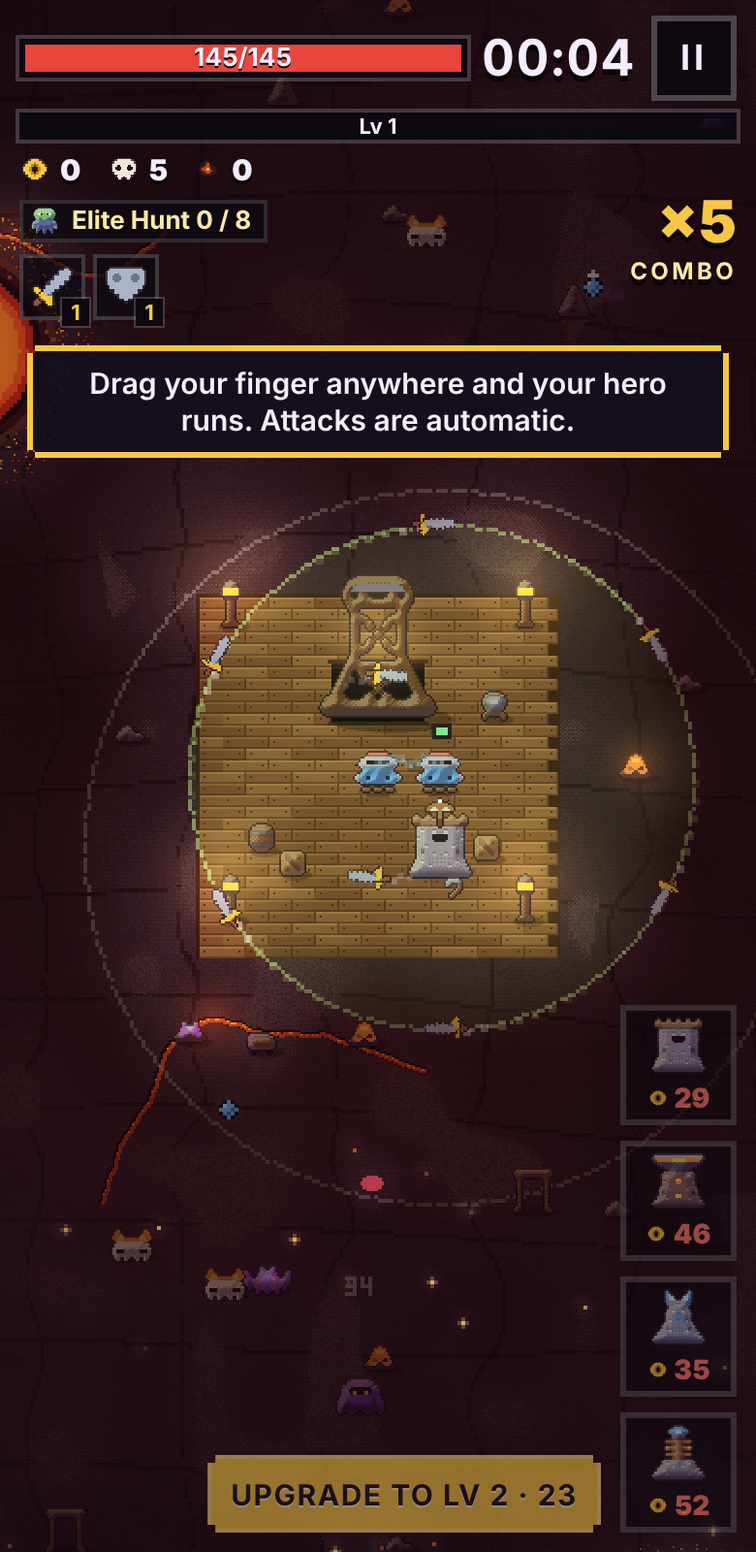
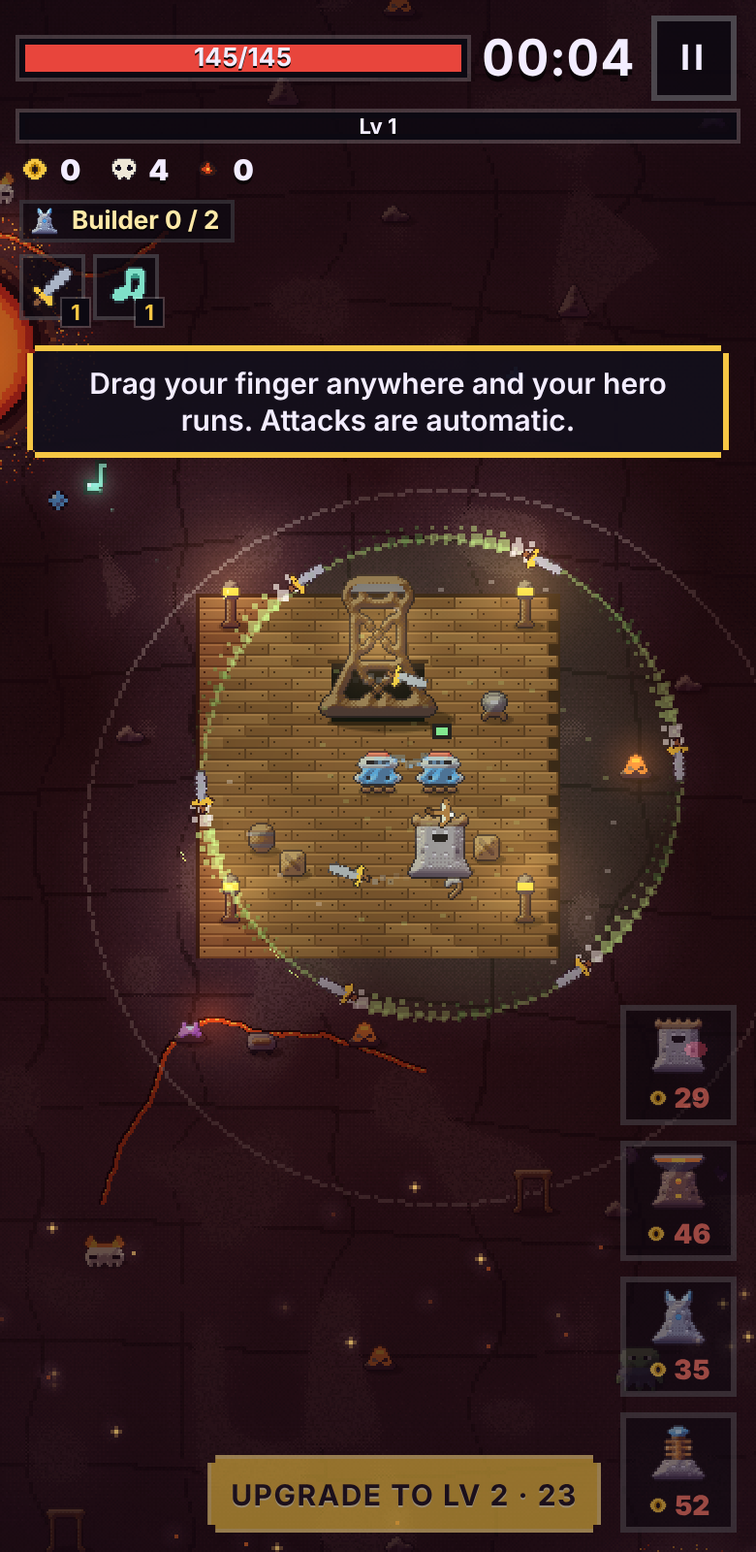
Efektní ultimátky: nový vzhled fúzí, aura hrdiny, náraz dropu, verze 2026-11-07d
Claude-Session: https://claude.ai/code/session_0145V9NbT8siG69Xgsc47SLj

diff --git a/index.html b/index.html
@@ -1615,7 +1615,7 @@ function fitApp(){try{const sa=window.navigator.standalone===true||matchMedia('(
   let h=Math.max(window.innerHeight||0,document.documentElement.clientHeight||0);
   if(sa&&(/iPhone|iPad|iPod/.test(navigator.userAgent||'')||(navigator.platform==='MacIntel'&&navigator.maxTouchPoints>1))){const land=(window.innerWidth||0)>(window.innerHeight||0);h=Math.max(h,land?Math.min(screen.width,screen.height):Math.max(screen.width,screen.height));}
   document.documentElement.style.setProperty('--appH',h+'px');fitApp.info={sa,h,ih:window.innerHeight,ch:document.documentElement.clientHeight,sh:screen.height,sw:screen.width};}catch(_){}}
-const GAME_VER='2026-11-07c';
+const GAME_VER='2026-11-07d';
 fitApp();addEventListener('resize',()=>{fitApp();resize();});addEventListener('orientationchange',()=>setTimeout(()=>{fitApp();resize();},250));
 
 /* ============ state ============ */
@@ -1907,6 +1907,7 @@ const LOGIC={
    fire({x:p.x,y:p.y,vx:Math.cos(a)*190,vy:Math.sin(a)*190,dmg:P.dmg,r:5,pierce:99,life:2.2,kind:'rang',rehit:.3,kb:40,spin:14,t:0});}}},
  // ultimates (w.mul = bonus from the rhythm fusion)
  vortex:{cont(w,P,dt){const p=run.p,m=w.mul||1,ph=(((M.beatPos/4)%1)+1)%1;w.r=P.rad+(P.out-P.rad)*Math.sin(Math.PI*ph);w.ang=M.beatPos*6.283*.5;w.pulse=Math.max(0,(w.pulse||0)-dt*4);
+   if(Math.random()<dt*14){const a=Math.random()*6.283;addP({k:'streak',x:p.x+Math.cos(a)*w.r,y:p.y+Math.sin(a)*w.r,vx:Math.cos(a+1.57)*90,vy:Math.sin(a+1.57)*90,life:.35,col:'#c8ff9a',g:0,drag:2});}
    for(let i=0;i<P.n;i++){const a=w.ang+i*6.283/P.n,bx=p.x+Math.cos(a)*w.r,by=p.y+Math.sin(a)*w.r;
     for(const e of run.enemies){if(e.dead||Math.abs(e.x-bx)>e.r+7||Math.abs(e.y-by)>e.r+7)continue;
      if(Math.hypot(e.x-bx,e.y-by)<e.r+6&&run.t-(e.hc.vortex||-9)>.3){e.hc.vortex=run.t;hurtEnemy(e,P.dmg*m,Math.cos(a+1.57)*110,Math.sin(a+1.57)*110);}}}},
@@ -1918,7 +1919,7 @@ const LOGIC={
     for(let i=1;i<P.n;i++){let nx=null,nd=72;for(const e of run.enemies){if(e.dead||hit.has(e))continue;const dd=Math.hypot(e.x-cur.x,e.y-cur.y);if(dd<nd){nd=dd;nx=e;}}
      if(!nx)break;hit.add(nx);d*=.92;pts.push({x:nx.x,y:nx.y});zap(nx,d);cur=nx;}
     if(pts.length>2)run.fx.push({k:'bolt',x:pts[pts.length-1].x,y:pts[pts.length-1].y,life:.18,seed:Math.random()*99});
-    run.fx.push({k:'arc',pts,life:.2,seed:Math.random()*99,col:'#f6e05a'});}}},
+    run.fx.push({k:'arc',pts,life:.28,seed:Math.random()*99,col:'#f6e05a'});}}},
  meteor:{fire(w,P){const ts=nearest(10,170),p=run.p,m=w.mul||1;sfx('shoot',2);
    for(let i=0;i<P.n;i++){const t=ts.length?ts[(Math.random()*ts.length)|0]:null,x=t?t.x+rnd(-6,6):p.x+rnd(-70,70),y=t?t.y+rnd(-6,6):p.y+rnd(-70,70);
     run.fx.push({k:'meteor',x,y,t:-i*.12,dur:.5,dmg:P.dmg*m,rad:P.rad,burn:P.burn*m});}}},
@@ -1927,7 +1928,8 @@ const LOGIC={
 };
 Object.assign(LOGIC,{
  echo:{fire(w,P){const p=run.p,m=w.mul||1,off=M.beatPos*.4;sfx('shoot',3);
-   for(let i=0;i<P.n;i++){const a=off+i*6.283/P.n;fire({x:p.x,y:p.y-3,vx:Math.cos(a)*125,vy:Math.sin(a)*125,a0:a,wt:i*.5,spd:125,dmg:P.dmg*m,r:3,pierce:P.pierce,life:1.1,kind:'note',kb:25});}
+   for(let i=0;i<P.n;i++){const a=off+i*6.283/P.n;fire({x:p.x,y:p.y-3,vx:Math.cos(a)*125,vy:Math.sin(a)*125,a0:a,wt:i*.5,spd:125,dmg:P.dmg*m,r:3,pierce:P.pierce,life:1.1,kind:'note',kb:25,ech:1});}
+   run.fx.push({k:'wave',x:p.x,y:p.y,life:.45,max:.45,r:64});
    if(run.barNow||M.step%16===0){const ts=nearest(P.rn,170);for(let i=0;i<P.rn;i++){const t=ts[i%Math.max(1,ts.length)],a=t?Math.atan2(t.y-p.y,t.x-p.x):i*2.1;
      fire({x:p.x,y:p.y,vx:Math.cos(a)*200,vy:Math.sin(a)*200,dmg:P.rdmg*m,r:6,pierce:99,life:2.2,kind:'rang',rehit:.25,kb:45,spin:16,t:0,echo:1});}}}},
  steam:{fire(w,P){const ts=nearest(8,150);if(!ts.length)return;sfx('shoot',2);const p=run.p,m=w.mul||1;
@@ -1935,23 +1937,25 @@ Object.assign(LOGIC,{
     fire({x:p.x,y:p.y,vx:Math.cos(a)*110,vy:Math.sin(a)*110,dmg:P.dmg*m,r:4,pierce:0,life:1.6,kind:'steam',rad:P.rad,srad:P.srad,sdm:P.sdm*m,kb:0});}}}
 });
 // a fire shot exploding; steam also leaves a slowing, scalding cloud
-function shotBoom(s){explode(s.x,s.y,s.rad,s.dmg);if(s.kind==='steam'){run.fx.push({k:'ring',x:s.x,y:s.y,r:2,max:s.srad,dmg:s.sdm,hit:new Set(),life:1,col:'#e8f4ff'});
+function shotBoom(s){explode(s.x,s.y,s.rad,s.dmg);if(s.kind==='steam'){run.fx.push({k:'ring',x:s.x,y:s.y,r:2,max:s.srad,dmg:s.sdm,hit:new Set(),life:1,col:'#e8f4ff',ghost:1});run.fx.push({k:'cloud',x:s.x,y:s.y,r:s.srad,life:1.1,max:1.1,seed:Math.random()*9});
   if(run.parts.length<400)for(let i=0;i<14;i++)run.parts.push({x:s.x+rnd(-6,6),y:s.y+rnd(-6,6),vx:rnd(-40,40),vy:rnd(-50,-10),life:rnd(.5,.9),col:pick(['#ffffff','#dfe8f0','#b8c4d0']),sz:2,g:0});}}
 // big "drop" moves at the start of every 4-bar phrase
+function ultColOf(W){if(!W)return null;let c=null;for(const id in W)if(ULT_COL[id])c=ULT_COL[id];return c;}
 const ULT_COL={vortex:'#c8ff9a',storm:'#f6e07a',meteor:'#ff9a4a',blizzard:'#bfeaff',echo:'#7fe0c8',steam:'#e8f4ff'};
 const ULT_DROP={
- vortex(w,P){const p=run.p;run.fx.push({k:'ring',x:p.x,y:p.y,r:2,max:140,dmg:P.dmg*2.5*(w.mul||1),hit:new Set(),life:1,noslow:true,col:'#c8ff9a'});sfx('boom');run.shake=Math.max(run.shake,3);},
- storm(w,P){const vis=run.enemies.filter(e=>!e.dead&&inView(e,-4)).slice(0,24);if(!vis.length)return;sfx('zap');run.flashScr=Math.max(run.flashScr,.2);
+ vortex(w,P){const p=run.p;run.fx.push({k:'ring',x:p.x,y:p.y,r:2,max:140,dmg:P.dmg*2.5*(w.mul||1),hit:new Set(),life:1,noslow:true,col:'#c8ff9a'});run.fx.push({k:'tornado',x:p.x,y:p.y,life:.9,max:.9,seed:Math.random()*9});sfx('boom');run.shake=Math.max(run.shake,3);},
+ storm(w,P){const vis=run.enemies.filter(e=>!e.dead&&inView(e,-4)).slice(0,24);if(!vis.length)return;sfx('zap');run.flashScr=Math.max(run.flashScr,.2);run.fx.push({k:'dark',x:run.p.x,y:run.p.y,life:.55,max:.55});
    for(const e of vis){run.fx.push({k:'bolt',x:e.x,y:e.y,life:.22,seed:Math.random()*99});hurtEnemy(e,P.dmg*1.6*(w.mul||1),0,0);}},
  meteor(w,P){const c=run.cam,m=w.mul||1;for(let i=0;i<10;i++)run.fx.push({k:'meteor',x:c.x+20+Math.random()*(VW-40),y:c.y+40+Math.random()*(VH-80),t:-i*.09,dur:.6,dmg:P.dmg*m,rad:P.rad+6,burn:P.burn*m});},
- blizzard(w,P){const p=run.p;run.fx.push({k:'ring',x:p.x,y:p.y,r:2,max:150,dmg:P.dmg*2*(w.mul||1),hit:new Set(),life:1,freeze:true});sfx('zap');},
- echo(w,P){const p=run.p,m=w.mul||1;sfx('boom');for(let k=0;k<2;k++)for(let i=0;i<24;i++){const a=i/24*6.283+k*.13;fire({x:p.x,y:p.y-3,vx:Math.cos(a)*(110+k*50),vy:Math.sin(a)*(110+k*50),a0:a,wt:i,spd:110+k*50,dmg:P.dmg*1.6*m,r:3,pierce:6,life:1.4,kind:'note',kb:30});}},
- steam(w,P){const p=run.p,m=w.mul||1;sfx('boom');run.fx.push({k:'ring',x:p.x,y:p.y,r:2,max:150,dmg:P.dmg*1.2*m,hit:new Set(),life:1,col:'#e8f4ff'});run.shake=Math.max(run.shake,3);}
+ blizzard(w,P){const p=run.p;run.fx.push({k:'ring',x:p.x,y:p.y,r:2,max:150,dmg:P.dmg*2*(w.mul||1),hit:new Set(),life:1,freeze:true});run.fx.push({k:'spikes',x:p.x,y:p.y,life:1.3,max:1.3,seed:Math.random()*99});run.fx.push({k:'flurry',x:p.x,y:p.y,life:1,max:1});sfx('zap');},
+ echo(w,P){const p=run.p,m=w.mul||1;sfx('boom');for(let k=0;k<2;k++)for(let i=0;i<24;i++){const a=i/24*6.283+k*.13;fire({x:p.x,y:p.y-3,vx:Math.cos(a)*(110+k*50),vy:Math.sin(a)*(110+k*50),a0:a,wt:i,spd:110+k*50,dmg:P.dmg*1.6*m,r:3,pierce:6,life:1.4,kind:'note',ech:1,kb:30});}},
+ steam(w,P){const p=run.p,m=w.mul||1;sfx('boom');run.fx.push({k:'ring',x:p.x,y:p.y,r:2,max:150,dmg:P.dmg*1.2*m,hit:new Set(),life:1,col:'#e8f4ff',ghost:1});run.fx.push({k:'cloud',x:p.x,y:p.y,r:70,life:1.6,max:1.6,seed:Math.random()*9,big:1});run.shake=Math.max(run.shake,3);}
 };
 function iceHit(e,s){
   if(e.frz>0){e.frz=0;hurtEnemy(e,s.dmg*1.5,0,0);sfx('hit');
     for(let i=0;i<s.ns;i++){const a=i/s.ns*6.283+Math.random()*.3;fire({x:e.x,y:e.y,vx:Math.cos(a)*170,vy:Math.sin(a)*170,dmg:s.shard,r:2,pierce:1,life:.32,kind:'shard',kb:25});run.shots[run.shots.length-1].hit.set(e,run.t);}
-    for(let i=0;i<8;i++)run.parts.push({x:e.x,y:e.y-2,vx:rnd(-70,70),vy:rnd(-90,-20),life:.4,col:pick(['#ffffff','#bfeaff','#7fcaff']),sz:1});}
+    for(let i=0;i<14;i++)addP({x:e.x,y:e.y-2,vx:rnd(-90,90),vy:rnd(-110,-20),life:rnd(.35,.6),col:pick(['#ffffff','#bfeaff','#7fcaff']),sz:rnd(1,2.5),gy:e.y+rnd(2,6)});
+    sparks(e.x,e.y-2,6,'#ffffff',0,0,130);run.fx.push({k:'pop',x:e.x,y:e.y-2,r:2,max:13,t:0,life:.22,col:'#bfeaff'});}
   else{hurtEnemy(e,s.dmg,0,0);if(!e.dead){e.frz=e.boss?.35:1.6;e.slowT=Math.max(e.slowT,2.4);}}
 }
 const QSTEPS=[1,2,3,4,6,8,12,16,24,32];
@@ -1960,7 +1964,7 @@ function updateWeapons(dt){if(!run.p.down)updateWeapons0(dt);if(run.pls&&!run.pl
 function updateWeapons0(dt){for(const id in run.W){const L=LOGIC[id];if(L.cont){const w=run.W[id];L.cont(w,wP(id,w),dt);}}}
 function fireAll(s){
   if(st.lg&&st.lg.bass&&s%16===0&&run.t>1){const p=run.p;run.fx.push({k:'ring',x:p.x,y:p.y,r:2,max:70,dmg:12+run.level*2,hit:new Set(),life:1,noslow:true,col:'#ff9a5a'});}
-  if(s%64===0&&run.t>2)for(const id in run.W){const D=ULT_DROP[id];if(D){const w=run.W[id];D(w,wP(id,w));run.flashScr=Math.max(run.flashScr,.12);const p=run.p;run.fx.push({k:'shock',x:p.x,y:p.y,r:4,max:150,life:.45,t:0,col:ULT_COL[id]||'#ffffff',big:1});}}
+  if(s%64===0&&run.t>2)for(const id in run.W){const D=ULT_DROP[id];if(D){const w=run.W[id];D(w,wP(id,w));run.flashScr=Math.max(run.flashScr,.22);run.flashCol=ULT_COL[id];run.hitstop=Math.max(run.hitstop||0,.09);run.shake=Math.max(run.shake,3.5);const p=run.p;run.fx.push({k:'shock',x:p.x,y:p.y,r:4,max:150,life:.45,t:0,col:ULT_COL[id]||'#ffffff',big:1});}}
   for(const id in run.W){const L=LOGIC[id];if(!L.fire)continue;const w=run.W[id],P=wP(id,w);
     if((s+(W_OFF[id]||0))%qsteps((P.cd||P.tick)*st.cdMul)===0)L.fire(w,P);}
 }
@@ -1988,6 +1992,7 @@ function updateShots(dt){
     s.x+=s.vx*dt;s.y+=s.vy*dt;if(s.spin)s.rot+=s.spin*dt;
     if(run.parts.length<420){if(s.kind==='bolt')run.parts.push({x:s.x,y:s.y,vx:0,vy:0,life:.16,col:'#4aa3e8',sz:1,g:0});
       else if(s.kind==='note'&&Math.random()<.3)run.parts.push({x:s.x,y:s.y,vx:0,vy:-6,life:.3,col:'#7fe0c8',sz:1,g:0});
+      else if(s.kind==='ice'&&Math.random()<.5)run.parts.push({x:s.x+rnd(-2,2),y:s.y+rnd(-2,2),vx:rnd(-6,6),vy:rnd(4,14),life:.45,col:pick(['#ffffff','#bfeaff']),sz:1,g:0});
       else if(s.kind==='steam'&&Math.random()<.6)run.parts.push({x:s.x+rnd(-2,2),y:s.y+rnd(-2,2),vx:rnd(-8,8),vy:rnd(-25,-5),life:.35,col:pick(['#ffffff','#dfe8f0','#f08a3c']),sz:1,g:0});
       else if(s.kind==='fire'&&Math.random()<.6)run.parts.push({x:s.x+rnd(-1,1),y:s.y+rnd(-1,1),vx:rnd(-8,8),vy:rnd(-25,-5),life:.25,col:pick(['#f6c744','#f08a3c','#e8453c']),sz:1,g:0});}
     if(s.life<=0||s.x<8||s.y<8||s.x>sz-8||s.y>sz+40){if(s.kind==='fire'||s.kind==='steam')shotBoom(s);s.dead=true;continue;}
@@ -2010,8 +2015,18 @@ function updateShots(dt){
     if(s.x<0||s.y<0||s.x>sz||s.y>sz)s.life=0;}
   run.eshots=run.eshots.filter(s=>s.life>0);
 }
+// one-time particle bursts of the fusion visuals (cosmetic only)
+const ULT_FXI={
+ tornado(f){for(let i=0;i<18;i++){const a=i/18*6.283;addP({k:'streak',x:f.x+Math.cos(a)*10,y:f.y+Math.sin(a)*10,vx:Math.cos(a+1)*170,vy:Math.sin(a+1)*170,life:.5,col:i&1?'#ffffff':'#c8ff9a',g:0,drag:2});}},
+ spikes(f){for(let i=0;i<14;i++)smokePuff(f.x+rnd(-20,20),f.y+rnd(-20,20),1,'#dff6ff',1.3);},
+ flurry(f){const c=run.cam;for(let i=0;i<70;i++)addP({x:c.x+rnd(-40,VW),y:c.y+rnd(-40,VH),vx:rnd(60,110),vy:rnd(30,60),life:rnd(.6,1.1),col:pick(['#ffffff','#dff6ff','#bfeaff']),sz:rnd(1,2),g:0});},
+ cloud(f){const n=f.big?18:4,R2=f.r*.55;for(let i=0;i<n;i++){const a=Math.random()*6.283,d=Math.random()*R2;addP({k:'smoke',x:f.x+Math.cos(a)*d,y:f.y+Math.sin(a)*d*.7,vx:Math.cos(a)*rnd(15,40),vy:Math.sin(a)*rnd(8,20)-rnd(15,35),life:rnd(.7,1.2)*(f.big?1.3:1),max:1.2*(f.big?1.3:1),sz:rnd(2.5,4)*(f.big?1.6:1),grow:rnd(5,9),drag:1.6,g:0,col:pick(['#ffffff','#e8f0f6','#c8d4de']),a:.55});}
+   for(let i=0;i<(f.big?16:7);i++)addP({x:f.x,y:f.y-2,vx:rnd(-60,60),vy:rnd(-90,-30),life:rnd(.4,.7),col:pick(['#bfeaff','#ffffff']),sz:1});},
+ wave(f){}
+};
 function updateFx(dt){
   for(const f of run.fx){
+    if(!f.i&&ULT_FXI[f.k]){f.i=1;ULT_FXI[f.k](f);}
     if(f.k==='ring'){f.r+=(f.max-f.r)*Math.min(1,dt*4)+dt*30;f.life=1-f.r/f.max;
       if((!f.col||f.freeze)&&Math.random()<dt*30){const a=Math.random()*6.283;addP({x:f.x+Math.cos(a)*f.r,y:f.y+Math.sin(a)*f.r,vx:Math.cos(a)*10,vy:rnd(-12,4),life:rnd(.3,.6),col:pick(['#ffffff','#dff6ff','#bfeaff']),sz:1,g:0});}
       for(const e of run.enemies){if(e.dead||f.hit.has(e))continue;const d=Math.hypot(e.x-f.x,e.y-f.y);if(d<f.r+e.r&&d>f.r-14-e.r){f.hit.add(e);if(!f.noslow)e.slowT=2.2;if(f.freeze)e.frz=e.boss?.5:1.8;hurtEnemy(e,f.dmg,(e.x-f.x)*2,(e.y-f.y)*2);}}
@@ -2021,7 +2036,9 @@ function updateFx(dt){
     else if(f.k==='shock'){f.t+=dt;f.r=3+(f.max-3)*Math.min(1,f.t/f.life);if(f.t>=f.life)f.dead=true;}
     else if(f.k==='meteor'){f.t+=dt;if(f.t>0&&run.parts.length<400&&Math.random()<.7){const k=f.t/f.dur;run.parts.push({x:f.x+(1-k)*40+rnd(-2,2),y:f.y-(1-k)*140,vx:rnd(-10,10),vy:rnd(-20,0),life:.25,col:pick(['#f6c744','#f08a3c','#e8453c']),sz:1,g:0});if(Math.random()<.5)addP({k:'smoke',x:f.x+(1-k)*40,y:f.y-(1-k)*140-4,vx:rnd(-5,5),vy:rnd(-8,0),life:.5,max:.5,sz:1.5,grow:5,drag:1,g:0,col:'#4a3a48',a:.45});}
       if(f.t>=f.dur&&isGuest())f.dead=true;
-      else if(f.t>=f.dur){f.dead=true;explode(f.x,f.y,f.rad,f.dmg);run.shake=Math.max(run.shake,2.5);run.fx.push({k:'burn',x:f.x,y:f.y,r:f.rad*.7,life:2.4,max:2.4,tick:0,dmg:f.burn});}}
+      else if(f.t>=f.dur){f.dead=true;explode(f.x,f.y,f.rad,f.dmg);run.shake=Math.max(run.shake,2.5);run.fx.push({k:'scorch',x:f.x,y:f.y+1,r:f.rad*.9,life:2.6,max:2.6,seed:Math.random()*9});
+        for(let i=0;i<7;i++)addP({x:f.x,y:f.y-2,vx:rnd(-70,70),vy:rnd(-110,-50),life:rnd(.5,.8),col:pick(['#3a1e14','#6a3a24','#9a6a44']),sz:2,gy:f.y+rnd(-4,6)});
+        for(let i=0;i<8;i++)addP({k:'ember',x:f.x+rnd(-4,4),y:f.y-2,vx:rnd(-40,40),vy:rnd(-70,-20),life:rnd(.6,1.2),col:pick(['#f6c744','#f08a3c']),sz:1,drag:1.5});run.fx.push({k:'burn',x:f.x,y:f.y,r:f.rad*.7,life:2.4,max:2.4,tick:0,dmg:f.burn});}}
     else if(f.k==='burn'){if(Math.random()<dt*5)addP({k:'smoke',x:f.x+rnd(-f.r*.6,f.r*.6),y:f.y+rnd(-f.r*.4,f.r*.3)-3,vx:rnd(-4,4),vy:rnd(-22,-12),life:rnd(.6,1),max:1,sz:1.5,grow:4,drag:.5,g:0,col:'#3a2c38',a:.4});f.life-=dt;f.tick-=dt;if(f.tick<=0){f.tick=.4;for(const e of run.enemies){if(!e.dead&&Math.hypot(e.x-f.x,e.y-f.y)<f.r+e.r)hurtEnemy(e,f.dmg,0,0);}}if(f.life<=0)f.dead=true;}
     else{f.life-=dt;if(f.life<=0)f.dead=true;}
   }
@@ -2466,6 +2483,22 @@ function drawNum(g,txt,x,y,col,s){s=s||1;
     cx+=4*s;}
 }
 function circ(g,x,y,r,col,alpha){g.globalAlpha=alpha==null?1:alpha;g.fillStyle=col;rowsCircle(g,RZ(x),RZ(y),Math.round(r));g.globalAlpha=1;}
+// fusion visuals drawn on the ground layer
+const ECHO_COL=['#7fe0c8','#ff7ab0','#f6c744','#9a8aff','#5cd8ff','#a8ff7a'];
+const ULT_DRAW={
+ wave(g,f,x,y){const k=1-f.life/f.max;for(let j=0;j<2;j++){const kk=k-j*.25;if(kk<=0)continue;const r=f.r*kk;ringPix(g,x,y,r,j?'#ff7ab0':'#7fe0c8',.7*(1-kk));ringPix(g,x,y,r+1,'#ffffff',.3*(1-kk));}},
+ tornado(g,f,x,y){const k=1-f.life/f.max,R0=20+k*130,al=1-k;
+   circ(g,x,y,R0*.9,'#5cc45c',.1*al);
+   for(let arm=0;arm<4;arm++)for(let i=0;i<26;i++){const t=i/26,a=f.seed+arm*1.571+t*5.5-run.t*14,r=R0*t;
+     const sz=t>.5?3:2;g.globalAlpha=al*(.35+.65*t);g.fillStyle=t>.75?'#ffffff':t>.4?'#c8ff9a':'#5cc45c';g.fillRect(RZ(x+Math.cos(a)*r-sz/2),RZ(y+Math.sin(a)*r*.8-sz/2),sz,sz);
+     if(t>.6&&i%3===0){const s2=SPR.icon.blade;g.globalAlpha=al;g.save();g.translate(RZ(x+Math.cos(a)*r),RZ(y+Math.sin(a)*r*.8));g.rotate(a+run.t*20);g.drawImage(s2.c,-s2.w/2,-s2.h/2,s2.w,s2.h);g.restore();}}g.globalAlpha=1;},
+ spikes(g,f,x,y){const k=1-f.life/f.max,front=Math.min(1,k/.4)*150,fade=clamp(f.life*2.2,0,1);
+   for(let i=0;i<90;i++){const a=f.seed+i*2.399,d=14+((i*37+f.seed*7)%1000)/1000*134;if(d>front)continue;
+     const age=clamp((front-d)/30,0,1),h=(5+(i%4)*2.5)*Math.min(1,age*2)*fade,sx=RZ(x+Math.cos(a)*d),sy=RZ(y+Math.sin(a)*d*.85);if(h<.5)continue;
+     g.globalAlpha=.95*fade;g.fillStyle='#2a5a8a';g.fillRect(sx-2.5,sy,6,1.5);
+     for(let j=0;j<h;j+=.5){const ww=Math.max(.5,3.5*(1-j/h));g.fillStyle=j<h*.3?'#4a8ac8':j<h*.7?'#7fcaff':j<h*.9?'#dff6ff':'#ffffff';g.fillRect(RZ(sx-ww/2+.5),RZ(sy-j),ww,.5);g.fillStyle='#ffffff';if(j>h*.3)g.fillRect(RZ(sx-ww/2+.5),RZ(sy-j),.5,.5);}}
+   g.globalAlpha=1;if(k<.45)ringPix(g,x,y,front,'#ffffff',.6*(1-k/.45));}
+};
 function ringPix(g,x,y,r,col,alpha){g.globalAlpha=alpha==null?1:alpha;g.fillStyle=col;const n=Math.max(12,Math.floor(r*5));
   for(let i=0;i<n;i++){const a=i/n*6.283;g.fillRect(RZ(x)+Math.round(Math.cos(a)*r),RZ(y)+Math.round(Math.sin(a)*r),1,1);}g.globalAlpha=1;}
 function shadow(g,x,y,w){x=RZ(x);y=RZ(y);g.fillStyle='#0000004a';g.fillRect(x-(w>>1)+1,y,w-2,1);g.fillRect(x-(w>>1),y+1,w,1);g.fillRect(x-(w>>1)+2,y+2,w-4,1);}
@@ -2538,7 +2571,8 @@ function renderLight(g,ox,oy){
   // warm additive glow on hot things
   g.globalCompositeOperation='lighter';
   const GL=(x,y,r,col,a)=>{x+=ox;y+=oy;if(x<-r||y<-r||x>VW+r||y>VH+r)return;const gr=g.createRadialGradient(x,y,0,x,y,r);gr.addColorStop(0,col);gr.addColorStop(1,'rgba(0,0,0,0)');g.globalAlpha=a;g.fillStyle=gr;g.fillRect(x-r,y-r,r*2,r*2);g.globalAlpha=1;};
-  for(const s of run.shots){if(s.kind==='fire')GL(s.x,s.y,11,'#f08a3c',.4);else if(s.kind==='steam')GL(s.x,s.y,11,'#dfe8f0',.35);else if(s.kind==='bolt')GL(s.x,s.y,8,'#4aa3e8',.4);else if(s.kind==='note')GL(s.x,s.y,8,'#7fe0c8',.35);}
+  for(const s of run.shots){if(s.kind==='fire')GL(s.x,s.y,11,'#f08a3c',.4);else if(s.kind==='steam')GL(s.x,s.y,11,'#dfe8f0',.35);else if(s.kind==='bolt')GL(s.x,s.y,8,'#4aa3e8',.4);else if(s.kind==='note')GL(s.x,s.y,8,s.ech?ECHO_COL[(s.wt*2|0)%ECHO_COL.length]:'#7fe0c8',.35);else if(s.kind==='ice')GL(s.x,s.y,9,'#7fcaff',.4);}
+  {const uc=ultColOf(run.W);if(uc)GL(run.p.x,run.p.y,18+M.pulse*4,uc,.3);}
   for(const pl of run.built.pools)GL(pl.x,pl.y,pl.r+10,'#ff5a1a',.22);
   if(run.carts)for(const c of run.carts)GL(c.x,c.y-6,16,'#ffb040',.35);
   for(const t of run.towers){const ty=t.y-t.spr.h/2;if(t.k==='fire')GL(t.x,ty-3,12+t.kick*8,'#ff7a2a',.35+.15*t.kick);else if(t.k==='tesla')GL(t.x,ty+1,8+t.kick*10,'#9ab4ff',.3+.3*t.kick);else if(t.k==='frost')GL(t.x,ty-5,8+t.kick*8,'#9ae0ff',.25+.25*t.kick);}
@@ -2616,13 +2650,15 @@ function render(){
   for(const f of run.fx){if(f.k!=='scorch')continue;const x=f.x+ox,y=f.y+oy;if(x<-f.r||y<-f.r||x>VW+f.r||y>VH+f.r)continue;const a=clamp(f.life/f.max*1.5,0,1)*.22;
     circ(g,x,y,f.r*.8,'#140a12',a);for(let i=0;i<4;i++){const an=f.seed+i*1.7;circ(g,x+Math.cos(an)*f.r*.45,y+Math.sin(an)*f.r*.3,f.r*.45,'#140a12',a*.8);}circ(g,x,y,f.r*.35,'#2a1410',a*1.3);}
   for(const f of run.fx){const x=f.x+ox,y=f.y+oy;
-    if(f.k==='ring'){const c2=f.col||'#7fcaff';circ(g,x,y,f.r,f.col?'#9aff8a':'#bfeaff',.12);ringPix(g,x,y,f.r,'#ffffff',.9);ringPix(g,x,y,Math.max(1,f.r-2),c2,.8);
+    if(f.k==='ring'&&f.ghost){if(f.r<f.max*.6)ringPix(g,x,y,f.r,'#ffffff',.35*(1-f.r/f.max));continue;}
+    if(ULT_DRAW[f.k]){ULT_DRAW[f.k](g,f,x,y);continue;}
+    if(f.k==='ring'){const c2=f.col||'#7fcaff';circ(g,x,y,f.r,f.col?mixHex(f.col,'#5cc45c',.3):'#bfeaff',.12);ringPix(g,x,y,f.r,'#ffffff',.9);ringPix(g,x,y,Math.max(1,f.r-2),c2,.8);
       if(!f.col||f.freeze){const n=Math.max(8,Math.floor(f.r/3)),al=clamp(f.life*2,0,1);g.globalAlpha=al;for(let i=0;i<n;i++){const an=i/n*6.283+f.max,len=(i&1?3:1.5)+(i%3===0?1:0),c=Math.cos(an),sn=Math.sin(an);
         for(let k=0;k<len;k+=.5){g.fillStyle=k>len-1?'#ffffff':'#bfeaff';g.fillRect(RZ(x+c*(f.r+k)),RZ(y+sn*(f.r+k)),.5,.5);}}g.globalAlpha=1;}}
     else if(f.k==='shock'){const k=clamp(f.t/f.life,0,1),al=(1-k)*(f.big?.9:.8);ringPix(g,x,y,f.r,f.col||'#ffffff',al);ringPix(g,x,y,f.r-1,'#ffffff',al*.6);if(f.big)ringPix(g,x,y,f.r*.8,f.col,al*.4);}
     else if(f.k==='burn'){const a=clamp(f.life/f.max*1.5,0,1);circ(g,x,y,f.r,'#e8453c',.16*a);circ(g,x,y,f.r*.6,'#f08a3c',.18*a);
       g.globalAlpha=a;for(let k=0;k<11;k++){const an=k*2.4+run.t*.5,rr=f.r*(.15+((k*.37)%1)*.8),fx2=RZ(x+Math.cos(an)*rr),fy=RZ(y+Math.sin(an)*rr*.7);flame(g,fx2,fy,2.5+1.8*Math.sin(run.t*13+k*1.9)+((k*7)%3)*.6,1+(k&1)*.5,k);}g.globalAlpha=1;}
-    else if(f.k==='meteor'&&f.t>0){const k=clamp(f.t/f.dur,0,1);ringPix(g,x,y,f.rad*(1-k*.4),'#e8453c',.45+.5*k);ringPix(g,x,y,f.rad*(1-k*.4)-1,'#fff6c8',.3*k);circ(g,x,y,f.rad*.35*k,'#000000',.3);}
+    else if(f.k==='meteor'&&f.t>0){const k=clamp(f.t/f.dur,0,1);g.globalAlpha=.35*k;g.fillStyle='#000000';rowsCircle(g,RZ(x),RZ(y+1),Math.round(f.rad*.25+k*f.rad*.45));g.globalAlpha=1;ringPix(g,x,y,f.rad*(1-k*.4),'#e8453c',.45+.5*k);ringPix(g,x,y,f.rad*(1-k*.4)-1,'#fff6c8',.3*k);circ(g,x,y,f.rad*.35*k,'#000000',.3);}
     else if(f.k==='boom'){const k=clamp(f.t/.34,0,1),sd=f.seed||0;
       if(f.t<.05){circ(g,x,y,f.r*1.05,'#ffffff',.95);}
       else{const a=1-k*.6,shrink=1-k*.35;circ(g,x,y,f.r*shrink,k>.55?'#8a2a2a':'#e8453c',.55*a);
@@ -2659,6 +2695,8 @@ function render(){
       const ph=p.moving?(Math.floor(M.beatPos*2)&1):(((M.beatPos%1)+1)%1<.14?1:0);
       const img=ph?(p.flash>0?s.f2:s.c2):(p.flash>0?s.f:s.c),bob=p.moving&&!ph?-1:0;
       shadow(g,x,y+s.h/2-4,10);
+      {const uc=ultColOf(run.W);if(uc){const pu=.5+.5*Math.sin(run.t*4);circ(g,x,y+s.h/2-4,9+pu,uc,.16+M.pulse*.1);ringPix(g,x,y+s.h/2-4,10+pu,uc,.3+M.pulse*.25);
+        if(Math.random()<.12)addP({x:p.x+rnd(-6,6),y:p.y+rnd(-2,6),vx:rnd(-4,4),vy:rnd(-22,-10),life:.6,col:uc,sz:1,g:0});}}
       if(p.inv>0&&Math.floor(run.t*20)%2===0&&p.flash<=0)g.globalAlpha=.45;if(p.down)g.globalAlpha=.45;
       blit(g,img,s,x,y-s.h/2+bob-1);g.globalAlpha=1;continue;}
     const e=u,x=RZ(e.x+ox),y=RZ(e.y+oy),s=e.spr;
@@ -2671,7 +2709,11 @@ function render(){
     if(e.sq>0&&!RM){const k=e.sq,w2=s.w*(1+.24*k),h2=s.h*(1-.2*k);g.drawImage(img,RZ(e.x+ox-w2/2),RZ(e.y+oy+s.h/2+bob-h2),RZ(w2),RZ(h2));e.sq=Math.max(0,e.sq-(frameDt||.016)*9);}
     else blit(g,img,s,e.x+ox,e.y+oy-s.h/2+bob);
     if(e.slowT>0){g.globalAlpha=.35;g.fillStyle='#7fcaff';g.fillRect(x-(s.w>>2),y-(s.h>>2),s.w>>1,s.h>>1);}
-    if(e.frz>0){g.globalAlpha=.45;g.fillStyle='#dff6ff';g.fillRect(x-(s.w>>1)+2,y-(s.h>>1)+2,s.w-4,s.h-4);g.globalAlpha=.9;g.fillStyle='#ffffff';g.fillRect(x-(s.w>>2),y-(s.h>>2),1,1);g.fillRect(x+(s.w>>2),y,1,1);g.fillRect(x,y+(s.h>>2)-1,1,1);}
+    if(e.frz>0){const hw=(s.w>>1)+1,hh=(s.h>>1)+1;g.globalAlpha=.5;g.fillStyle='#bfeaff';g.fillRect(x-hw+1,y-hh+2,hw*2-2,hh*2-2);
+      g.globalAlpha=.85;g.fillStyle='#7fcaff';g.fillRect(x-hw,y-hh+3,1,hh*2-4);g.fillRect(x+hw-1,y-hh+3,1,hh*2-4);g.fillRect(x-hw+2,y+hh-1,hw*2-4,1);
+      g.fillStyle='#ffffff';g.fillRect(x-hw+2,y-hh+1,hw*2-4,1);g.fillRect(x-hw+2,y-hh+2,1,3);
+      for(let i=0;i<3;i++){const sx=x-hw+3+i*(hw-2),sh=2+((i*5+(e.nid||0))%3);g.fillStyle='#dff6ff';g.fillRect(sx,y-hh-sh+1,1,sh);g.fillStyle='#ffffff';g.fillRect(sx,y-hh-sh+1,1,1);}
+      if(Math.floor(run.t*3+(e.nid||0))%5===0){g.fillRect(x-(s.w>>2),y-(s.h>>2),1,1);g.fillRect(x+(s.w>>2),y,1,1);}}
     g.globalAlpha=1;
     if(e.mode===1){g.fillStyle='#120c1a';g.fillRect(x-1,y-(s.h>>1)-8,3,7);g.fillStyle='#ff5a4a';g.fillRect(x,y-(s.h>>1)-7,1,3);g.fillRect(x,y-(s.h>>1)-3,1,1);}
     if(e.elite&&e.hp<e.max){const bw=Math.round(s.w*.8);g.fillStyle='#000';g.fillRect(x-(bw>>1)-1,y-(s.h>>1)-5,bw+2,4);g.fillStyle='#e8453c';g.fillRect(x-(bw>>1),y-(s.h>>1)-4,Math.round(bw*e.hp/e.max),2);}
@@ -2685,17 +2727,18 @@ function render(){
       g.save();g.translate(Math.round(bx),Math.round(by));g.rotate(a+2.36);g.drawImage(s.c,-s.w/2,-s.h/2,s.w,s.h);g.restore();}}
   // vortex of blades
   const vx2=W.vortex;if(vx2&&vx2.r){const P=wP('vortex',vx2),s=SPR.icon.blade,pu=vx2.pulse||0;
-    circ(g,p.x+ox,p.y+oy,vx2.r,'#5cc45c',.08+pu*.1);ringPix(g,p.x+ox,p.y+oy,vx2.r,'#c8ff9a',.35+pu*.45);
+    circ(g,p.x+ox,p.y+oy,vx2.r,'#5cc45c',.1+pu*.14);ringPix(g,p.x+ox,p.y+oy,vx2.r,'#c8ff9a',.35+pu*.45);
+    for(let arm=0;arm<3;arm++)for(let i=0;i<14;i++){const t=i/14,a=-run.t*5+arm*2.094+t*3.6,r=vx2.r*(.2+t*.75);g.globalAlpha=(.12+.3*t)*(.7+pu*.6);g.fillStyle=t>.7?'#ffffff':'#c8ff9a';g.fillRect(RZ(p.x+Math.cos(a)*r+ox),RZ(p.y+Math.sin(a)*r+oy),1.5,1);}g.globalAlpha=1;
     for(let i=0;i<P.n;i++){const a=vx2.ang+i*6.283/P.n,bx=p.x+Math.cos(a)*vx2.r+ox,by=p.y+Math.sin(a)*vx2.r+oy;
-      for(let tr=1;tr<=9;tr++){g.globalAlpha=.55*(1-tr/10);g.fillStyle=tr<3?'#ffffff':'#c8ff9a';g.fillRect(RZ(p.x+Math.cos(a-tr*.07)*vx2.r+ox),RZ(p.y+Math.sin(a-tr*.07)*vx2.r+oy),2,2);}g.globalAlpha=1;
+      for(let tr=1;tr<=18;tr++){g.globalAlpha=.7*(1-tr/19);g.fillStyle=tr<3?'#ffffff':tr<9?'#c8ff9a':'#5cc45c';const sz=tr<6?3:tr<12?2:1.5;for(const dr of [-2,0,2])g.fillRect(RZ(p.x+Math.cos(a-tr*.06)*(vx2.r+dr)+ox-sz/2),RZ(p.y+Math.sin(a-tr*.06)*(vx2.r+dr)+oy-sz/2),dr?sz*.5:sz,dr?sz*.5:sz);}g.globalAlpha=1;
       g.save();g.translate(Math.round(bx),Math.round(by));g.rotate(a+2.36);g.drawImage(s.c,-s.w/2,-s.h/2,s.w,s.h);g.restore();}}
   }
   // shots
   for(const s of run.shots){const x=RZ(s.x+ox),y=RZ(s.y+oy);if(x<-10||y<-10||x>VW+10||y>VH+10)continue;
     if(s.kind==='bolt'){const tw=(run.t*20+s.x)%4<2;g.globalAlpha=.6;g.fillStyle='#bfeaff';if(tw){g.fillRect(x-4,y,2,.5);g.fillRect(x+3,y,2,.5);g.fillRect(x,y-4,.5,2);g.fillRect(x,y+3,.5,2);}g.globalAlpha=1;g.fillStyle='#2a5aa8';g.fillRect(x-2,y-2,5,5);g.fillStyle='#4aa3e8';g.fillRect(x-2,y-1,5,3);g.fillRect(x-1,y-2,3,5);g.fillStyle='#bfeaff';g.fillRect(x-1,y-1,2,2);g.fillStyle='#ffffff';g.fillRect(x-1,y-1,1,1);}
-    else if(s.kind==='note'){g.fillStyle='#14302a';g.fillRect(x-3,y-1,5,4);g.fillRect(x,y-6,3,6);g.fillStyle='#7fe0c8';g.fillRect(x-2,y,3,2);g.fillRect(x+1,y-5,1,6);g.fillRect(x+1,y-5,2,1);g.fillStyle='#e8fff8';g.fillRect(x-2,y,1,1);}
+    else if(s.kind==='note'){const nc=s.ech?ECHO_COL[(s.wt*2|0)%ECHO_COL.length]:'#7fe0c8';if(s.ech){circ(g,x,y-2,4,nc,.25);}g.fillStyle='#14302a';g.fillRect(x-3,y-1,5,4);g.fillRect(x,y-6,3,6);g.fillStyle=nc;g.fillRect(x-2,y,3,2);g.fillRect(x+1,y-5,1,6);g.fillRect(x+1,y-5,2,1);g.fillStyle='#e8fff8';g.fillRect(x-2,y,1,1);}
     else if(s.kind==='rang'){const sp=SPR.icon.rang;g.save();g.translate(x,y);g.rotate(s.rot);g.drawImage(sp.c,-sp.w/2,-sp.h/2,sp.w,sp.h);g.restore();}
-    else if(s.kind==='steam'){g.fillStyle='#8a98a8';g.fillRect(x-3,y-3,7,7);g.fillStyle='#dfe8f0';g.fillRect(x-3,y-2,7,5);g.fillRect(x-2,y-3,5,7);g.fillStyle='#f08a3c';g.fillRect(x-1,y-1,3,3);g.fillStyle='#ffffff';g.fillRect(x-2,y-2,2,1);}
+    else if(s.kind==='steam'){circ(g,x,y,6+Math.sin(run.t*25+s.x)*.8,'#ffffff',.25);g.fillStyle='#8a98a8';g.fillRect(x-3,y-3,7,7);g.fillStyle='#dfe8f0';g.fillRect(x-3,y-2,7,5);g.fillRect(x-2,y-3,5,7);g.fillStyle='#f08a3c';g.fillRect(x-1,y-1,3,3);g.fillStyle='#ffffff';g.fillRect(x-2,y-2,2,1);}
     else if(s.kind==='fire'){const m=Math.hypot(s.vx,s.vy)||1,dx=s.vx/m,dy=s.vy/m;
       for(let i=5;i>=1;i--){const fl=Math.sin(run.t*30+i*2)*.8;circ(g,x-dx*i*2.4-dy*fl,y-dy*i*2.4+dx*fl,Math.max(1,4-i*.6),i<2?'#f6c744':i<4?'#f08a3c':'#e8453c',.75-i*.11);}
       g.fillStyle='#a8241a';g.fillRect(x-3,y-3,7,7);g.fillStyle='#e8453c';g.fillRect(x-3,y-2,7,5);g.fillRect(x-2,y-3,5,7);g.fillStyle='#f08a3c';g.fillRect(x-2,y-2,5,5);g.fillStyle='#f6c744';g.fillRect(x-1,y-1,3,3);g.fillStyle='#fff6c8';g.fillRect(x-1,y-1,1,1);}
@@ -2704,12 +2747,23 @@ function render(){
       for(let i=0;i<6;i++){g.fillStyle=i===0?'#ffffff':i>4?'#e8e4d4':'#8a5a3a';g.fillRect(Math.round(x-dx*i),Math.round(y-dy*i),1,1);}
       g.fillStyle='#d8dde8';g.fillRect(Math.round(x+dx),Math.round(y+dy),1,1);}
     else if(s.kind==='ice'){const m=Math.hypot(s.vx,s.vy)||1,dx=s.vx/m,dy=s.vy/m;
-      for(let i=0;i<7;i++){g.fillStyle=i<2?'#ffffff':i<5?'#7fcaff':'#bfeaff';g.fillRect(Math.round(x-dx*i),Math.round(y-dy*i),i<2?2:1,i<2?2:1);}}
+      for(let i=6;i<20;i++){g.globalAlpha=.4*(1-(i-6)/14);g.fillStyle='#bfeaff';g.fillRect(RZ(x-dx*i+dy*Math.sin(i*1.3)),RZ(y-dy*i-dx*Math.sin(i*1.3)),1,1);}g.globalAlpha=1;
+      circ(g,x,y,4,'#7fcaff',.3);
+      for(let i=0;i<8;i++){g.fillStyle=i<2?'#ffffff':i<5?'#7fcaff':'#4a8ac8';const w2=i<1?3:i<4?2:1;g.fillRect(RZ(x-dx*i-w2/2),RZ(y-dy*i-w2/2),w2,w2);}
+      g.fillStyle='#ffffff';g.fillRect(RZ(x+dx*1.5),RZ(y+dy*1.5),1,1);}
     else if(s.kind==='shard'){g.fillStyle='#bfeaff';g.fillRect(x-1,y-1,2,2);g.fillStyle='#ffffff';g.fillRect(x-1,y-1,1,1);}
     else if(s.kind==='axe'){const sp=SPR.icon.axe;
       for(let i=2;i>=1;i--){g.globalAlpha=.22/i;g.save();g.translate(RZ(x-s.vx*.018*i),RZ(y-s.vy*.018*i));g.rotate(s.rot-(s.spin||0)*.018*i);g.drawImage(sp.c,-sp.w/2,-sp.h/2,sp.w,sp.h);g.restore();}g.globalAlpha=1;g.save();g.translate(x,y);g.rotate(s.rot);g.drawImage(sp.c,-sp.w/2,-sp.h/2,sp.w,sp.h);g.restore();}}
   for(const s of run.eshots){const x=RZ(s.x+ox),y=RZ(s.y+oy);if(x<-8||y<-8||x>VW+8||y>VH+8)continue;
     const sp=SPR.misc.shot;blit(g,sp.c,sp,x,y-sp.h/2);if(M.pulse>.5){g.fillStyle='#ffd0dc';g.fillRect(x-1,y-1,1,1);}}
+  // storm drop darkens the sky for a moment
+  for(const f of run.fx){if(f.k==='dark'&&!RM){const k=f.life/f.max;g.globalAlpha=.42*Math.min(1,k*2.5);g.fillStyle='#0a0618';g.fillRect(0,0,VW,VH);g.globalAlpha=1;}}
+  // steam clouds: soft billows with a hot core at the start
+  {let nc=0;for(let fi=run.fx.length-1;fi>=0;fi--){const f=run.fx[fi];if(f.k!=='cloud')continue;if(++nc>6&&!f.big)continue;const k=1-f.life/f.max,x=f.x+ox,y=f.y+oy-k*(f.big?22:10),R2=f.r*(.45+k*.55),al=Math.min(1,f.life/f.max*2.2);
+    if(k<.18){circ(g,x,y,R2*.55,'#f08a3c',.6*(1-k/.18));circ(g,x,y,R2*.3,'#fff6c8',.8*(1-k/.18));}
+    const nb=f.big?9:6;for(let i=0;i<nb;i++){const a=f.seed+i*1.05,d=R2*(.25+((i*.37)%1)*.6),bx=x+Math.cos(a)*d,by=y+Math.sin(a)*d*.6,br=R2*(.38+((i*.53)%1)*.22);
+      circ(g,bx,by+1.5,br,i&1?'#e2eaf2':'#b8c4d0',.3*al);circ(g,bx-br*.25,by-br*.3,br*.45,'#ffffff',.35*al);}
+    if(f.big){for(let i=0;i<5;i++){const cy2=y-R2*.6-i*7;circ(g,x+Math.sin(run.t*3+i)*3,cy2,R2*(.35-i*.04),'#ffffff',.28*al);}circ(g,x,y-R2*.6-38,R2*.6,'#e2eaf2',.3*al);}}}
   // lightning
   for(const f of run.fx){if(f.k!=='bolt')continue;const x=f.x+ox,y=f.y+oy;
     if(!f.sp){f.sp=1;sparks(f.x,f.y,6,'#fff6b0',0,-1,140);run.fx.push({k:'scorch',x:f.x,y:f.y+2,r:5,life:1.2,max:1.2,seed:Math.random()*9});}
@@ -2723,8 +2777,16 @@ function render(){
     for(let tr=1;tr<=6;tr++){const tx=mx+tr*2.2,ty=my-tr*7.5;circ(g,tx,ty,Math.max(1,6-tr),tr<3?'#f6c744':'#f08a3c',.55-tr*.07);}
     circ(g,mx,my,11,'#f08a3c',.35);circ(g,mx,my,8,'#e8453c',.5);circ(g,mx,my,6,'#3a1e14');circ(g,mx-1,my-1,4,'#6a3a24');circ(g,mx-2,my-2,2,'#9a6a44');
     g.fillStyle='#fff6c8';g.fillRect(RZ(mx+3),RZ(my-5),1,1);g.fillRect(RZ(mx+5),RZ(my-2),1,1);}
+  // storm chains: thick forked bolts
+  for(const f of run.fx){if(f.k!=='arc'||f.col!=='#f6e05a')continue;const al=clamp(f.life*6,0,1),sd=f.seed+Math.floor(run.t*30);
+    for(let i=1;i<f.pts.length;i++){const a=f.pts[i-1],b=f.pts[i],n=Math.max(3,Math.ceil(Math.hypot(b.x-a.x,b.y-a.y)/7)),pts=[[a.x+ox,a.y+oy]];
+      for(let k=1;k<n;k++){const t=k/n,j=Math.sin(sd*(k+3*i)*1.7)*6*Math.sin(t*3.14);pts.push([a.x+(b.x-a.x)*t+ox-(b.y-a.y)/(n*7)*j,a.y+(b.y-a.y)*t+oy+(b.x-a.x)/(n*7)*j]);}
+      pts.push([b.x+ox,b.y+oy]);zap(g,pts,'#f6e05a',al,1);
+      if(pts.length>3){const m=pts[(pts.length/2)|0],bp=[m];let qx=m[0],qy=m[1];for(let k=0;k<3;k++){qx+=Math.sin(sd*(k+i))*7;qy+=Math.cos(sd*(k+i)*1.3)*7;bp.push([qx,qy]);}zap(g,bp,'#fff6b0',al*.7,0);}}
+    if(!f.sp){f.sp=1;for(let i=1;i<f.pts.length;i++){sparks(f.pts[i].x,f.pts[i].y,5,'#fff6b0',0,0,120);}}
+    for(let i=1;i<f.pts.length;i++){const q=f.pts[i];circ(g,q.x+ox,q.y+oy,8,'#f6e05a',.3*al);circ(g,q.x+ox,q.y+oy,4,'#ffffff',.9*al);}}
   // tesla arcs
-  for(const f of run.fx){if(f.k!=='arc')continue;
+  for(const f of run.fx){if(f.k!=='arc'||f.col==='#f6e05a')continue;
     for(let i=1;i<f.pts.length;i++){const a=f.pts[i-1],b=f.pts[i],n=Math.max(2,Math.ceil(Math.hypot(b.x-a.x,b.y-a.y)/3));
       for(let k=0;k<=n;k++){const tt=k/n,w=Math.sin(tt*3.14),jx=Math.sin(f.seed*(k+i))*3*w,jy=Math.cos(f.seed*(k+2*i))*3*w;
         const x=Math.round(a.x+(b.x-a.x)*tt+jx+ox),y=Math.round(a.y+(b.y-a.y)*tt+jy+oy);
@@ -2757,7 +2819,7 @@ function render(){
   for(const n of run.nums){g.globalAlpha=clamp(n.life*5,0,1);const c=n.big&&n.t<.08?'#ffffff':n.col;drawNum(g,n.txt,n.x+ox+(n.big&&n.t<.15?rnd(-.5,.5):0),n.y+oy,c,n.big?(n.t<.12?3:2):(n.t<.06?2:1));}g.globalAlpha=1;
   if(run.map.grade){g.globalCompositeOperation='soft-light';g.globalAlpha=run.map.gradeA||.2;g.fillStyle=run.map.grade;g.fillRect(0,0,VW,VH);g.globalAlpha=1;g.globalCompositeOperation='source-over';}
   if(vig.width===VW*Z&&vig.height===VH*Z)g.drawImage(vig,0,0,VW,VH);
-  if(run.flashScr>0){if(!RM){g.globalAlpha=Math.min(.6,run.flashScr);g.fillStyle='#fff8e0';g.fillRect(0,0,VW,VH);g.globalAlpha=1;}run.flashScr=Math.max(0,run.flashScr-frameDt*2.5);}
+  if(run.flashScr>0){if(!RM){g.globalAlpha=Math.min(.6,run.flashScr);g.fillStyle=run.flashCol||'#fff8e0';g.fillRect(0,0,VW,VH);g.globalAlpha=1;}run.flashScr=Math.max(0,run.flashScr-frameDt*2.5);if(run.flashScr<=0)run.flashCol=null;}
 }
 
 /* ============ loop ============ */
@@ -3922,6 +3984,7 @@ function drawMateArrow(g,ox,oy){const m=coMate();if(!m)return;const cx=m.x+ox,cy
 /* ============ news (what's new popup), install to home screen, result sharing ============ */
 // newest first; v must grow (date + letter). Shown once per new version, all of it under menu "Novinky".
 const NEWS=[
+ {v:'2026-11-07d',d:'7. 11. 2026',t:_t('Efektní ultimátky'),items:[_t('Ultimátky po fúzi mají <b>nový vzhled</b>: Vír ostří táhne zelené stopy a při dropu vymrští tornádo čepelí, Řetězová bouře šlehá tlusté rozvětvené blesky a na dropu setmí oblohu.'),_t('<b>Ledová smršť</b> uzavře nepřátele do ledového krunýře a drop nechá vyrůst pole ledových krystalů s vánicí. <b>Meteorit</b> vrhá stín a nechává kráter a <b>Ozvěna</b> hraje duhovými notami.'),_t('S ultimátkou kolem hrdiny svítí aura v její barvě a velký drop na začátku fráze má pořádný náraz.')]},
  {v:'2026-11-07c',d:'7. 11. 2026',t:_t('Nákup hrdinů'),items:[_t('Ve výběru hrdiny a mapy teď vidíš své <b>zlato a materiály</b>.'),_t('Koupě hrdiny se musí <b>potvrdit</b>, aby se nedal koupit omylem.')]},
  {v:'2026-11-07b',d:'7. 11. 2026',t:_t('Vyladěná obtížnost'),items:[_t('<b>Poušť</b>: krystal vydrží víc, rychleji se v klidu léčí a jeho obranná vlna s časem sílí.'),_t('<b>Doly a poušť</b> mají mírnější nástup – nepřátelé tam mají méně zdraví a chodí jich méně najednou. Golem v dolech přichází až od 2. minuty a bije slaběji.'),_t('<b>Stavitel</b> má +15 zdraví. <b>Bard</b> přišel o bonus k poškození a jeho Noty jsou o něco slabší.'),_t('<b>Noční můry</b> přitvrzují rychleji a nepřátel je v nich víc.')]},
  {v:'2026-11-07a',d:'7. 11. 2026',t:_t('Ladění podle dat'),items:[_t('Po každém běhu hra anonymně uloží <b>krátkou statistiku</b> (hrdina, mapa, čas, zbraně, co tě zabilo). Podle ní budu ladit obtížnost a zbraně, místo hádání.'),_t('Neukládá se nic osobního a statistiky nikdo jiný ve hře nevidí.')]},

diff --git a/lang-en.js b/lang-en.js
@@ -6,6 +6,10 @@ window.KRYPTA_EN={
 "Máš: ":"You have: ",
 "Zbude ti: ":"Left after: ",
 "Koupit":"Buy",
+"Efektní ultimátky":"Flashy ultimates",
+"Ultimátky po fúzi mají <b>nový vzhled</b>: Vír ostří táhne zelené stopy a při dropu vymrští tornádo čepelí, Řetězová bouře šlehá tlusté rozvětvené blesky a na dropu setmí oblohu.":"Fused ultimates have a <b>new look</b>: Blade Vortex leaves green trails and its drop flings a tornado of blades, Chain Storm lashes thick forked lightning and darkens the sky on the drop.",
+"<b>Ledová smršť</b> uzavře nepřátele do ledového krunýře a drop nechá vyrůst pole ledových krystalů s vánicí. <b>Meteorit</b> vrhá stín a nechává kráter a <b>Ozvěna</b> hraje duhovými notami.":"<b>Blizzard</b> locks enemies in an ice shell and its drop grows a field of ice crystals with a snowstorm. <b>Meteor</b> casts a shadow and leaves a crater and <b>Echo</b> plays rainbow notes.",
+"S ultimátkou kolem hrdiny svítí aura v její barvě a velký drop na začátku fráze má pořádný náraz.":"With an ultimate your hero glows with its colour, and the big drop at the start of a phrase hits hard.",
 "Nákup hrdinů":"Buying heroes",
 "Ve výběru hrdiny a mapy teď vidíš své <b>zlato a materiály</b>.":"The hero and map selection now shows your <b>gold and materials</b>.",
 "Koupě hrdiny se musí <b>potvrdit</b>, aby se nedal koupit omylem.":"Buying a hero now needs <b>confirmation</b>, so you can't buy one by accident.",

diff --git a/CLAUDE.md b/CLAUDE.md
@@ -51,6 +51,7 @@ Klíčové koncepty:
   Rituál: stav `'fuse'` (`#scr-fuse`, `startFuse`/`fuseTap`/`fuseTick`/`finishFuse`), boj stojí, hudba hraje, 4 cílové doby; `audioBeat()` = `M.beatPos` minus latence (50 ms plánování + outputLatency). Perfektní < 85 ms (+6 %), Dobré < 170 ms (+3 %), 4× Perfektní = ×1,25.
   Každá ultimátka: drop na začátku fráze (`ULT_DROP`, `s%64`) a vlastní hudební vrstva v `playStep`. Ledová smršť: `e.frz` (zmrazení, rychlost ×0,1), `iceHit` roztříští zmrzlé na střepy (`kind:'shard'`). Meteor/žár jsou fx `meteor`/`burn`.
   Balanc (měřeno na figurínách): ultimátka I ≈ 1,1–1,8× DPS obou rodičů na lvl 6, III ≈ 2,5–4×. Testovací tlačítko v pauze „Test: připrav fúzi“.
+  **Vzhled ultimátek (11/2026, jen kosmetika):** aura hrdiny v barvě `ULT_COL` (`ultColOf(run.W)`, i v glow vrstvě). Drop: `run.hitstop` 0,09 s, `run.flashCol` (záblesk v barvě ultimátky), zatřesení. Kosmetické fx: `ULT_FXI[k]` = jednorázové částice při prvním `updateFx` (běží i u co-op guesta), `ULT_DRAW[k]` = kreslení v pozemní vrstvě: `wave` (Ozvěna, na každý výstřel), `tornado` (drop Víru, spirála + vymrštěné čepele), `spikes` (drop Ledové smršti, krystaly ze seedu, ne pole – kvůli síti), `flurry` (vánice). Horní vrstva: `dark` (drop Bouře ztmaví oblohu), `cloud` (pára; max 6 malých se kreslí), oblouky Bouře (`arc` s `col:'#f6e05a'`) jako tlusté rozvětvené blesky přes `zap()`. Prsten s `ghost:1` (pára) se skoro nekreslí. Noty Ozvěny mají `ech:1` → duhové `ECHO_COL`. Ledové šípy mají stopu a jiskry, zmrzlí nepřátelé ledový krunýř s rampouchy, roztříštění = `pop` + jiskry. Meteorit: stín před dopadem, kráter (`scorch`), kameny a uhlíky. Výkon (`vfxperf.js`): každá ultimátka sama 60 fps; všech 6 naráz 53 (dřív 57).
 - **Co-op (extra režim, sólo beze změny):** menu „Hrát s kamarádem“ → `#scr-coop` (kód 4 číslice, odkaz `?hra=1234`, výběr hrdiny, host vybírá mapu). Host simuluje oba hrdiny (`run.pls`, `withPl`), guest kreslí snímky (`isGuest()`, `guestApply`). Síť `NET` = WebRTC + signalizace/záloha přes Supabase broadcast. Detaily v `COOP.md`.
   Pravidla: společné XP/úroveň/mince, level-up čeká na oba (`run.lv`, stav `'wait'`, 25 s limit), padnutí → duch (×0,55 rychlost, nestřílí), oživení stáním u něj 4 doby (`coopBeat`), oba padlí = konec. Škálování: spawn ×1,7, HP ×1,25, elity ×1,5, boss ×1,8. Rytmické pouto `bondStr(d)` (zlatá zóna 60–140, zásah na dobu, ×2 na takt). Pauza je společná. Co-op se nepočítá do žebříčku/rekordů.
 - Zvuk po zamčení telefonu: iOS nechá AudioContext ve stavu `interrupted` (nebo hlásí `running` a mlčí). `audioInit` obnovuje z jakéhokoliv stavu (gesta pointerdown/touchend/click, návrat do aplikace), `audioWatch` po 0,8 s zkontroluje, že běží `currentTime`, jinak `M.dead` → při dalším dotyku nový kontext. `playStep`/`sfx` nic neplánují, když kontext neběží.
@@ -103,7 +104,7 @@ Hotové testovací skripty jsou v `tests/tools/` (viz README tam: smoke `shot.js
 Po změně vždy: smoke test (start běhu, ~90 kroků, žádné `pageerror`, šířka dokumentu = viewport) a screenshot.
 
 ## Hotovo
-Survivors základ, 4 hrdinové, 3 mapy, věže + Stavitel, krystal v poušti, testovací režim, rytmická chiptune hudba, propracovaný pixel art (hřbitov ve stylu Graveyard Keeper), žebříček + cloud save + přezdívka/PIN, hosting na GitHub Pages, joystick ve 3 režimech + multitouch, čitelnější písmo, plynulý šikmý pohyb (kamera), propracovaná poušť (chrám, oázy s léčením, kostra obra), propracované doly (koleje, rozjeté vozíky, těžní věž), skrytý testovací režim (podržení „Hudba“ 3 s), fúze zbraní (4 ultimátky I–III, rytmický rituál, drop na frázi, hudební vrstvy), online co-op pro 2 (WebRTC, lobby s kódem, oživení, rytmické pouto), oprava zvuku po zamčení telefonu, progrese: materiály map, úrovně hrdinů a talenty, výbava s raritami, obchod s truhlami, kovárna, Noční můry I–V, legendárky, Sbírka, denní výzva, hezčí menu (pixelové rohy, ikony, živé pozadí), animace otevírání truhly, pohlednice map ve výběru, úkoly (Nástěnka: denní úkoly, svíčky, týdenní odměny, hledaní elity), audit hry (11/2026): zuřivý boss, žebříček výher podle času, věže nesnižují odměnu, víc zlata za čas, přehled buildu v pauze, drobné opravy textů. Velká aktualizace (11/2026): Bard, Mistrovství a tituly, zbraně Noty/Bumerang, pasivky, fúze Ozvěna a tajná Parní exploze, denní výzva se seedem a žebříčkem Dnes, sdílení výsledku, PWA, tutoriál, okno Novinky. Nová hudba per mapa (forma, nástroje, boss). Grafické sjednocení a oprava fullscreenu (iPhone z plochy), číslo verze v menu, okno Ovládání s výběrem joysticku, revize ekonomiky (vracení vylepšení, sloučení s výběrem slotu, víc Magmatitu na úrovně 15–20, nápověda k materiálům). Anglická lokalizace (celá hra, přepínač jazyka v menu). Šťavnatější efekty (rozpad nepřátel, výbuchy, blesky, stopy) a nové animované věže. Telemetrie běhů do Supabase a bot pro balanc. Vyladěná obtížnost podle bota (poušť, doly, NM, Stavitel, Bard). Ve výběru hrdiny lišta zlata/materiálů (`#selMats`) a potvrzení koupě hrdiny (`confirmHero` v `#newsPop`). Poslední verze: `GAME_VER` 2026-11-07c.
+Survivors základ, 4 hrdinové, 3 mapy, věže + Stavitel, krystal v poušti, testovací režim, rytmická chiptune hudba, propracovaný pixel art (hřbitov ve stylu Graveyard Keeper), žebříček + cloud save + přezdívka/PIN, hosting na GitHub Pages, joystick ve 3 režimech + multitouch, čitelnější písmo, plynulý šikmý pohyb (kamera), propracovaná poušť (chrám, oázy s léčením, kostra obra), propracované doly (koleje, rozjeté vozíky, těžní věž), skrytý testovací režim (podržení „Hudba“ 3 s), fúze zbraní (4 ultimátky I–III, rytmický rituál, drop na frázi, hudební vrstvy), online co-op pro 2 (WebRTC, lobby s kódem, oživení, rytmické pouto), oprava zvuku po zamčení telefonu, progrese: materiály map, úrovně hrdinů a talenty, výbava s raritami, obchod s truhlami, kovárna, Noční můry I–V, legendárky, Sbírka, denní výzva, hezčí menu (pixelové rohy, ikony, živé pozadí), animace otevírání truhly, pohlednice map ve výběru, úkoly (Nástěnka: denní úkoly, svíčky, týdenní odměny, hledaní elity), audit hry (11/2026): zuřivý boss, žebříček výher podle času, věže nesnižují odměnu, víc zlata za čas, přehled buildu v pauze, drobné opravy textů. Velká aktualizace (11/2026): Bard, Mistrovství a tituly, zbraně Noty/Bumerang, pasivky, fúze Ozvěna a tajná Parní exploze, denní výzva se seedem a žebříčkem Dnes, sdílení výsledku, PWA, tutoriál, okno Novinky. Nová hudba per mapa (forma, nástroje, boss). Grafické sjednocení a oprava fullscreenu (iPhone z plochy), číslo verze v menu, okno Ovládání s výběrem joysticku, revize ekonomiky (vracení vylepšení, sloučení s výběrem slotu, víc Magmatitu na úrovně 15–20, nápověda k materiálům). Anglická lokalizace (celá hra, přepínač jazyka v menu). Šťavnatější efekty (rozpad nepřátel, výbuchy, blesky, stopy) a nové animované věže. Telemetrie běhů do Supabase a bot pro balanc. Vyladěná obtížnost podle bota (poušť, doly, NM, Stavitel, Bard). Ve výběru hrdiny lišta zlata/materiálů (`#selMats`) a potvrzení koupě hrdiny (`confirmHero` v `#newsPop`). Efektní ultimátky (nový vzhled všech fúzí, aura, náraz dropu). Poslední verze: `GAME_VER` 2026-11-07d.
 
 ## Nápady / plán
 - Co-op – zbývá (viz `COOP.md`): **ověřit naostro na dvou telefonech** (Supabase Realtime + WebRTC přes mobilní data/Instagram), Souhra, Duetní fúze, co-op karty pouta, co-op žebříček, návrat po odpojení.
